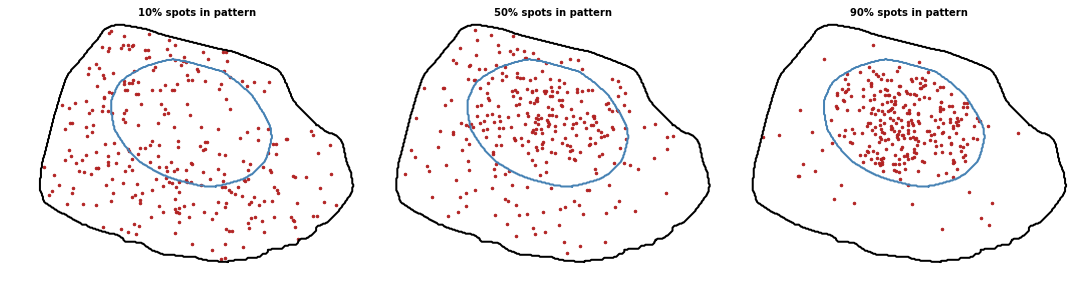
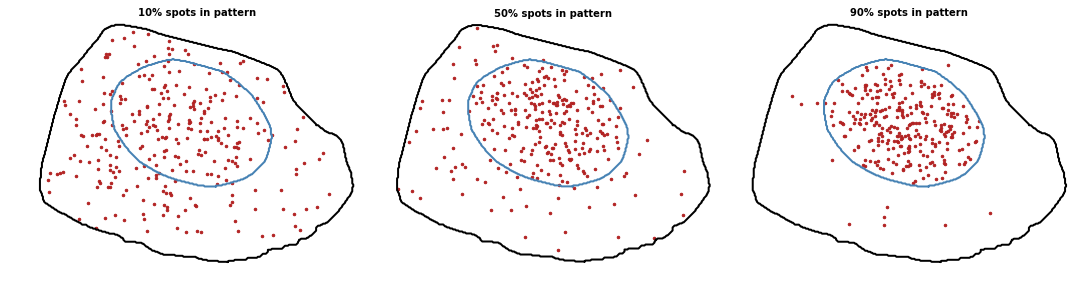
add extranuclear and pericellular patterns + add random spots everywhere

diff --git a/simfish/pattern_simulation.py b/simfish/pattern_simulation.py
@@ -774,6 +774,39 @@ def _get_cell_edge_probability_map(cell_mask, cell_map, nuc_mask):
     return probability_map
 
 
+def _get_pericellular_probability_map(cell_mask, nuc_mask, nuc_map):
+    """Compute a probability map to sample a pericellular pattern.
+
+    Parameters
+    ----------
+    cell_mask : np.ndarray, bool
+        Binary mask of the cell surface with shape (z, y, x).
+    nuc_mask : np.ndarray, bool
+        Binary mask of the nucleus surface with shape (z, y, x).
+    nuc_map : np.ndarray, np.float32
+        Distance map from the nucleus edge with shape (z, y, x).
+
+    Returns
+    -------
+    probability_map : np.ndarray, np.float32
+        Probability map to sample spots coordinates with shape (z, y, x).
+
+    """
+    # check parameters
+    stack.check_array(cell_mask, ndim=3, dtype=bool)
+    stack.check_array(nuc_mask, ndim=3, dtype=bool)
+    stack.check_array(nuc_map, ndim=3, dtype=[np.float32, np.float64])
+
+    # pericellular probability map
+    probability_map = nuc_map.copy().astype(np.float32)
+    probability_map **= 2
+    probability_map[nuc_mask] = 0.
+    probability_map[~cell_mask] = 0.
+    probability_map /= probability_map.sum()
+
+    return probability_map
+
+
 def _get_protrusion_probability_map(
         cell_mask,
         nuc_mask,
@@ -835,8 +868,8 @@ def build_probability_map(
         * 'protrusion_flag' presence or not of protrusion in  the instance.
     map_distribution : str, default='random'
         Probability distribution map to generate among 'random', 'random_out',
-        'random_in', 'nuclear_edge', 'perinuclear', 'cell_edge' and
-        'protrusion'.
+        'random_in', 'nuclear_edge', 'perinuclear', 'cell_edge', 'pericellular'
+        and 'protrusion'.
     return_masks : bool, default=False
         Return cell and nucleus binary masks.
 
@@ -856,10 +889,11 @@ def build_probability_map(
         return_masks=bool)
     if map_distribution not in ["random", "random_out", "random_in",
                                 "nuclear_edge", "perinuclear", "cell_edge",
-                                "protrusion"]:
+                                "pericellular", "protrusion"]:
         raise ValueError("Probability maps available are: 'random', "
                          "'random_out', 'random_in', 'nuclear_edge', "
-                         "'perinuclear', 'cell_edge', 'protrusion'. Not {0}."
+                         "'perinuclear', 'cell_edge', 'pericellular', "
+                         "'protrusion'. Not {0}."
                          .format(map_distribution))
 
     # set protrusion flag
@@ -892,6 +926,9 @@ def build_probability_map(
     elif map_distribution == "cell_edge":
         probability_map = _get_cell_edge_probability_map(
             cell_mask, cell_map, nuc_mask)
+    elif map_distribution == "pericellular":
+        probability_map = _get_pericellular_probability_map(
+            cell_mask, nuc_mask, nuc_map)
     elif map_distribution == "protrusion":
         probability_map = _get_protrusion_probability_map(
             cell_mask, nuc_mask, protrusion_mask)
@@ -933,8 +970,8 @@ def simulate_localization_pattern(
         * 'protrusion_flag' presence or not of protrusion in  the instance.
     pattern : str, default='random'
         Spot localization pattern to simulate among 'random', 'foci',
-        'intranuclear', 'nuclear_edge', 'perinuclear', 'cell_edge' and
-        'protrusion'.
+        'intranuclear', 'extranuclear', 'nuclear_edge', 'perinuclear',
+        'cell_edge', 'pericellular' and 'protrusion'.
     proportion_pattern : int or float, default=0.5
         Proportion of spots to localize with the pattern. Value between 0 and 1
         (0 means random pattern and 1 a perfect pattern).
@@ -959,11 +996,13 @@ def simulate_localization_pattern(
         n_spots=int,
         pattern=str,
         proportion_pattern=(int, float))
-    if pattern not in ["random", "foci", "intranuclear", "nuclear_edge",
-                       "perinuclear", "cell_edge", "protrusion"]:
+    if pattern not in ["random", "foci", "intranuclear", "extranuclear",
+                       "nuclear_edge", "perinuclear", "cell_edge",
+                       "pericellular", "protrusion"]:
         raise ValueError("Patterns available are: 'random', 'foci', "
-                         "'intranuclear', 'nuclear_edge', 'perinuclear', "
-                         "'cell_edge', 'protrusion'. Not {0}.".format(pattern))
+                         "'intranuclear', 'extranuclear', 'nuclear_edge', "
+                         "'perinuclear', 'cell_edge', 'pericellular', "
+                         "'protrusion'. Not {0}.".format(pattern))
 
     # simulate foci pattern (special case)
     if pattern == "foci":
@@ -1129,7 +1168,8 @@ def _simulate_pattern_area(
         * 'protrusion_flag' presence or not of protrusion in  the instance.
     pattern : str
         Spot localization pattern to simulate among 'intranuclear',
-        'nuclear_edge', 'perinuclear', 'cell_edge', 'protrusion' and 'random'.
+        'extranuclear', 'nuclear_edge', 'perinuclear', 'cell_edge',
+        'pericellular', 'protrusion' and 'random'.
     proportion_pattern : int or float
         Proportion of spots to localize with the pattern. Value between 0 and 1
         (0 means random pattern and 1 a perfect pattern).
@@ -1157,12 +1197,16 @@ def _simulate_pattern_area(
     # define probability map needed
     if pattern == "intranuclear":
         map_distribution = "random_in"
+    elif pattern == "extranuclear":
+        map_distribution = "random_out"
     elif pattern == "nuclear_edge":
         map_distribution = "nuclear_edge"
     elif pattern == "perinuclear":
         map_distribution = "perinuclear"
     elif pattern == "cell_edge":
         map_distribution = "cell_edge"
+    elif pattern == "pericellular":
+        map_distribution = "pericellular"
     elif pattern == "protrusion":
         map_distribution = "protrusion"
     else:
@@ -1196,13 +1240,8 @@ def _simulate_pattern_area(
     else:
 
         # build probability map without the targeted region
-        if pattern == "perinuclear":
-            probability_map_nopattern = cell_mask.copy().astype(np.float32)
-            probability_map_nopattern /= probability_map_nopattern.sum()
-        else:
-            probability_map_nopattern = cell_mask.copy().astype(np.float32)
-            probability_map_nopattern[probability_map_pattern > 0] = 0.
-            probability_map_nopattern /= probability_map_nopattern.sum()
+        probability_map_nopattern = cell_mask.copy().astype(np.float32)
+        probability_map_nopattern /= probability_map_nopattern.sum()
 
         # Get the number of spots following the pattern
         n_spots_pattern = int(n_spots * proportion_pattern)

diff --git a/docs/source/pattern_simulation.rst b/docs/source/pattern_simulation.rst
@@ -22,21 +22,29 @@ We implemented 7 patterns (6 localized patterns + 1 default random pattern) in
 
 |pic3|
 
-* **Nuclear edge**
+* **Extranuclear**
 
 |pic4|
 
-* **Perinuclear**
+* **Nuclear edge**
 
 |pic5|
 
-* **Cell edge**
+* **Perinuclear**
 
 |pic6|
 
-* **Protrusion**
+* **Cell edge**
 
 |pic7|
+
+* **Pericellular**
+
+|pic8|
+
+* **Protrusion**
+
+|pic9|
 
 .. |pic1| image:: ../../images/random_1_300.png
    :width: 50%
@@ -47,16 +55,22 @@ We implemented 7 patterns (6 localized patterns + 1 default random pattern) in
 .. |pic3| image:: ../../images/intranuclear_panel.png
    :width: 100%
 
-.. |pic4| image:: ../../images/nuclear_edge_panel.png
+.. |pic4| image:: ../../images/extranuclear_panel.png
    :width: 100%
 
-.. |pic5| image:: ../../images/perinuclear_panel.png
+.. |pic5| image:: ../../images/nuclear_edge_panel.png
    :width: 100%
 
-.. |pic6| image:: ../../images/cell_edge_panel.png
+.. |pic6| image:: ../../images/perinuclear_panel.png
    :width: 100%
 
-.. |pic7| image:: ../../images/protrusion_panel.png
+.. |pic7| image:: ../../images/cell_edge_panel.png
+   :width: 100%
+
+.. |pic8| image:: ../../images/pericellular_panel.png
+   :width: 100%
+
+.. |pic9| image:: ../../images/protrusion_panel.png
    :width: 100%
 
 We build a map of probability distribution to bias the localization of
